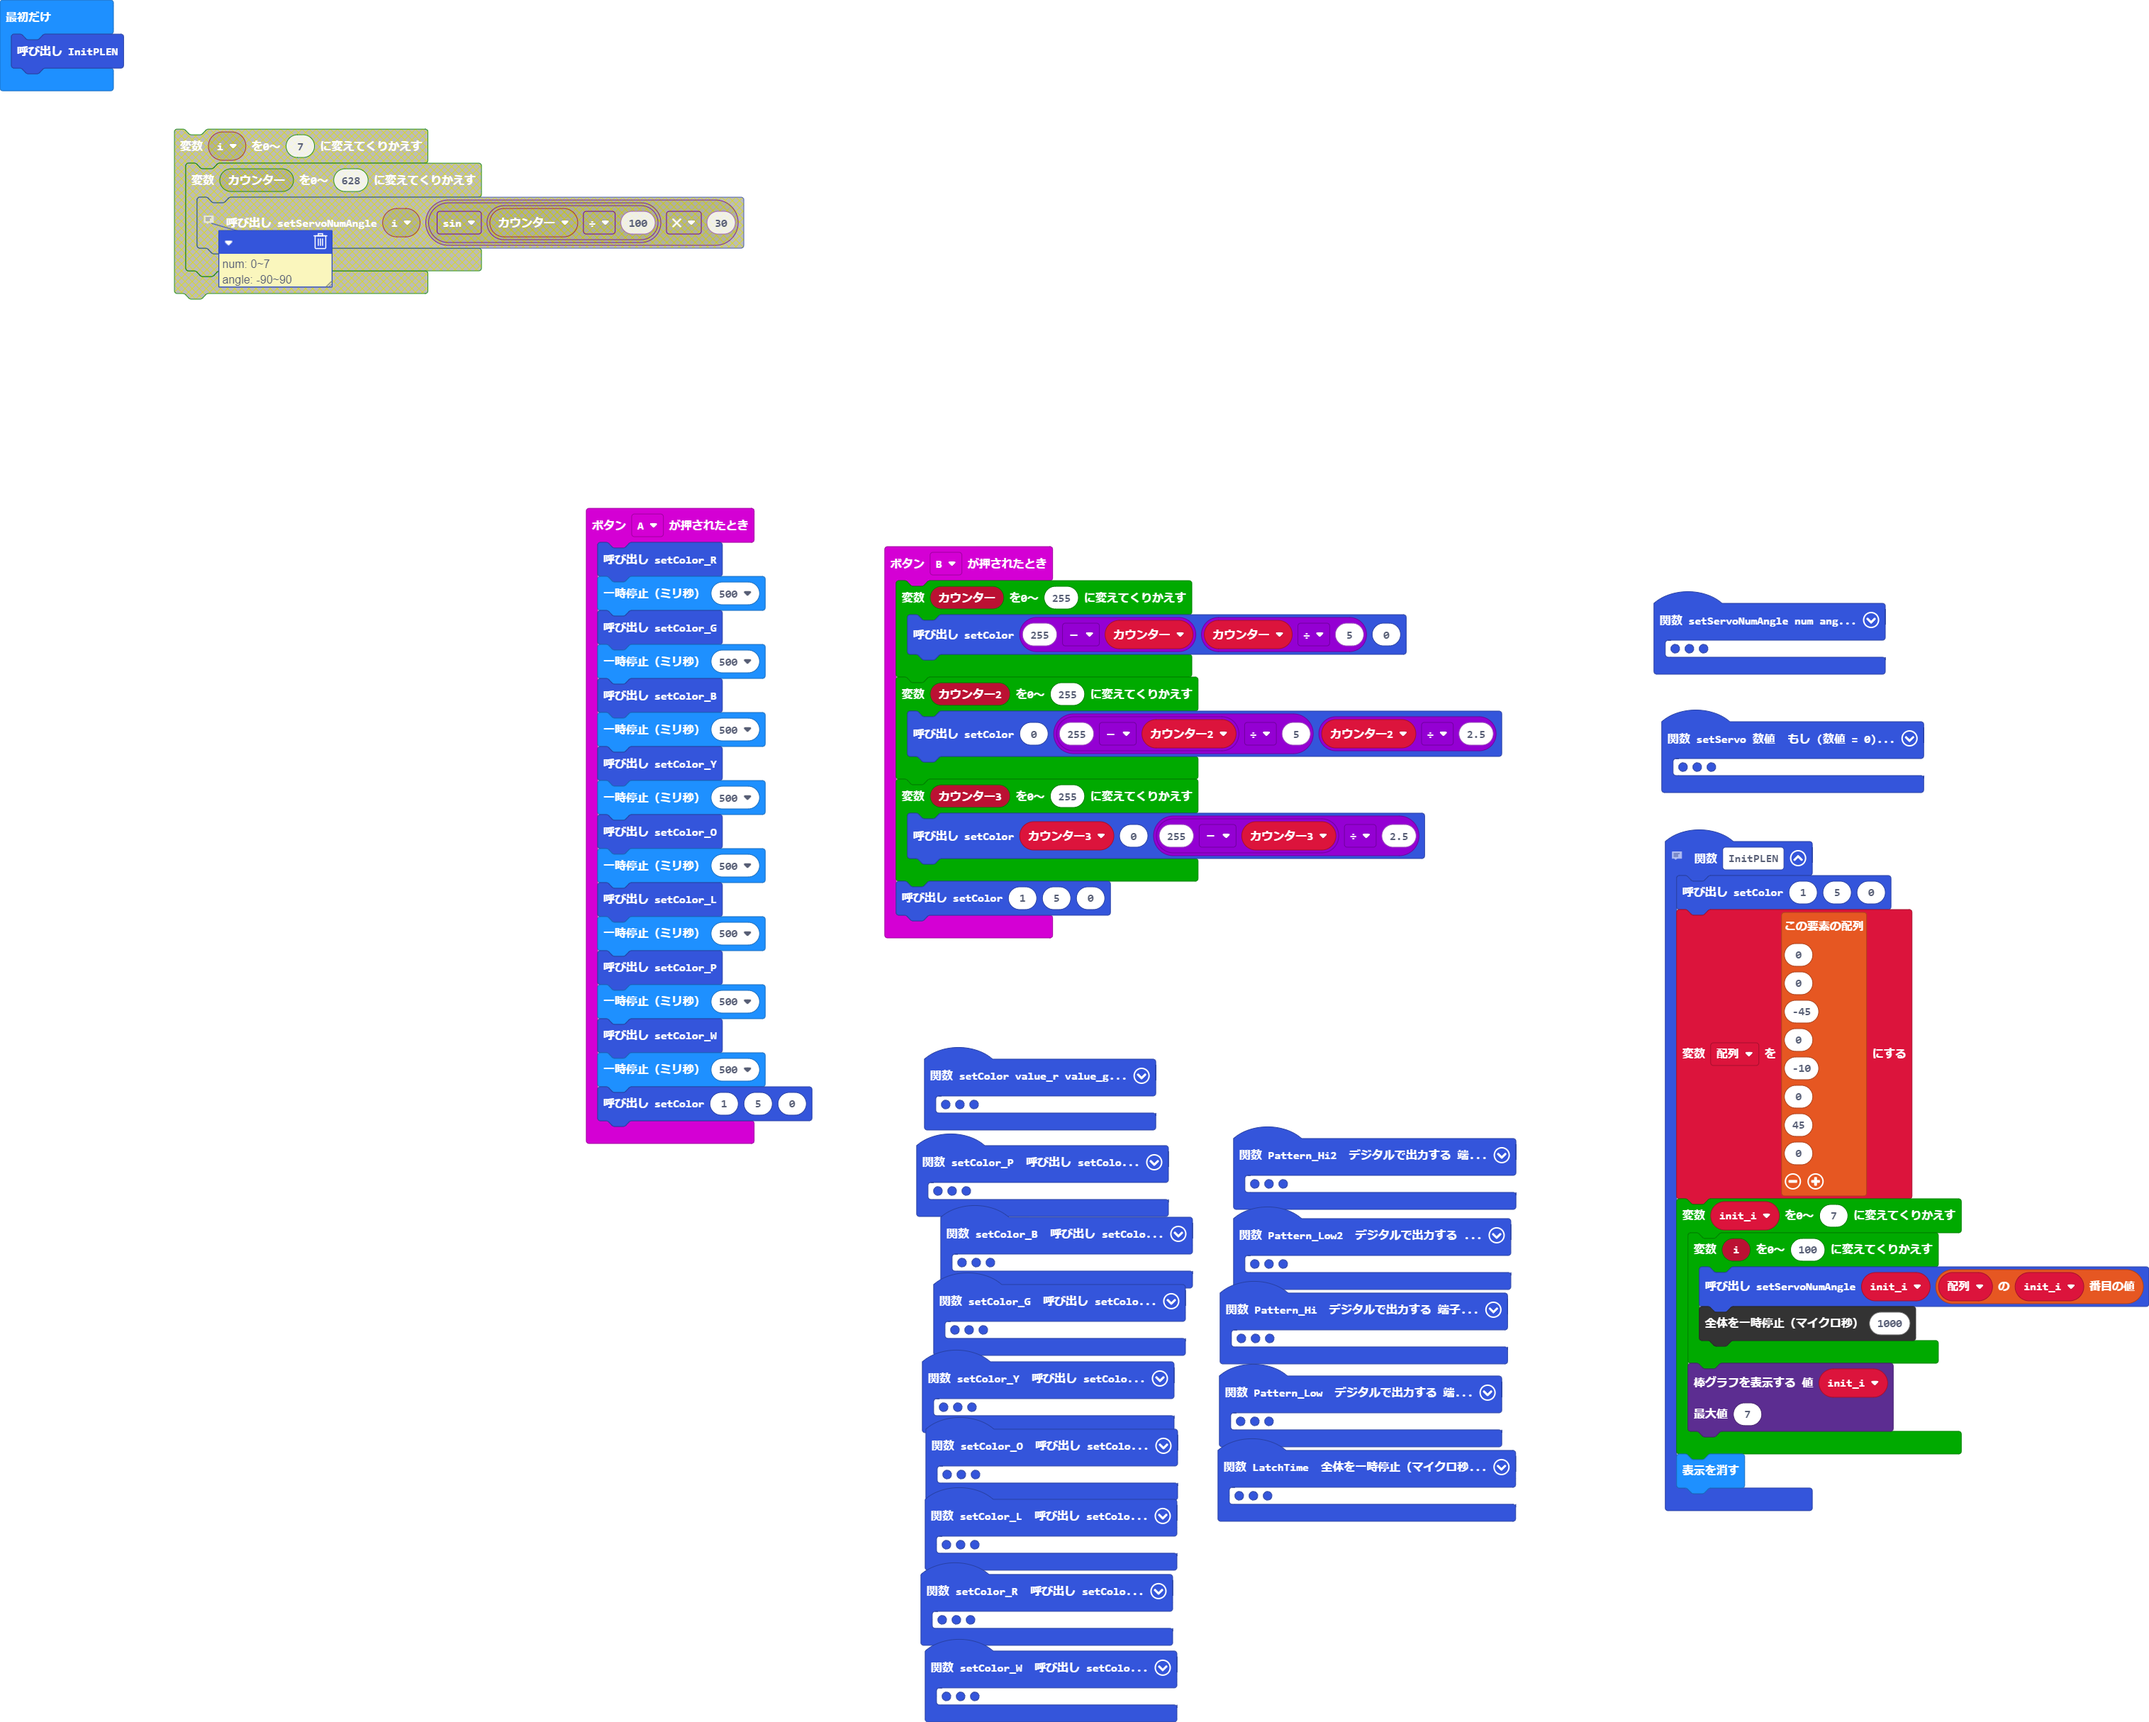
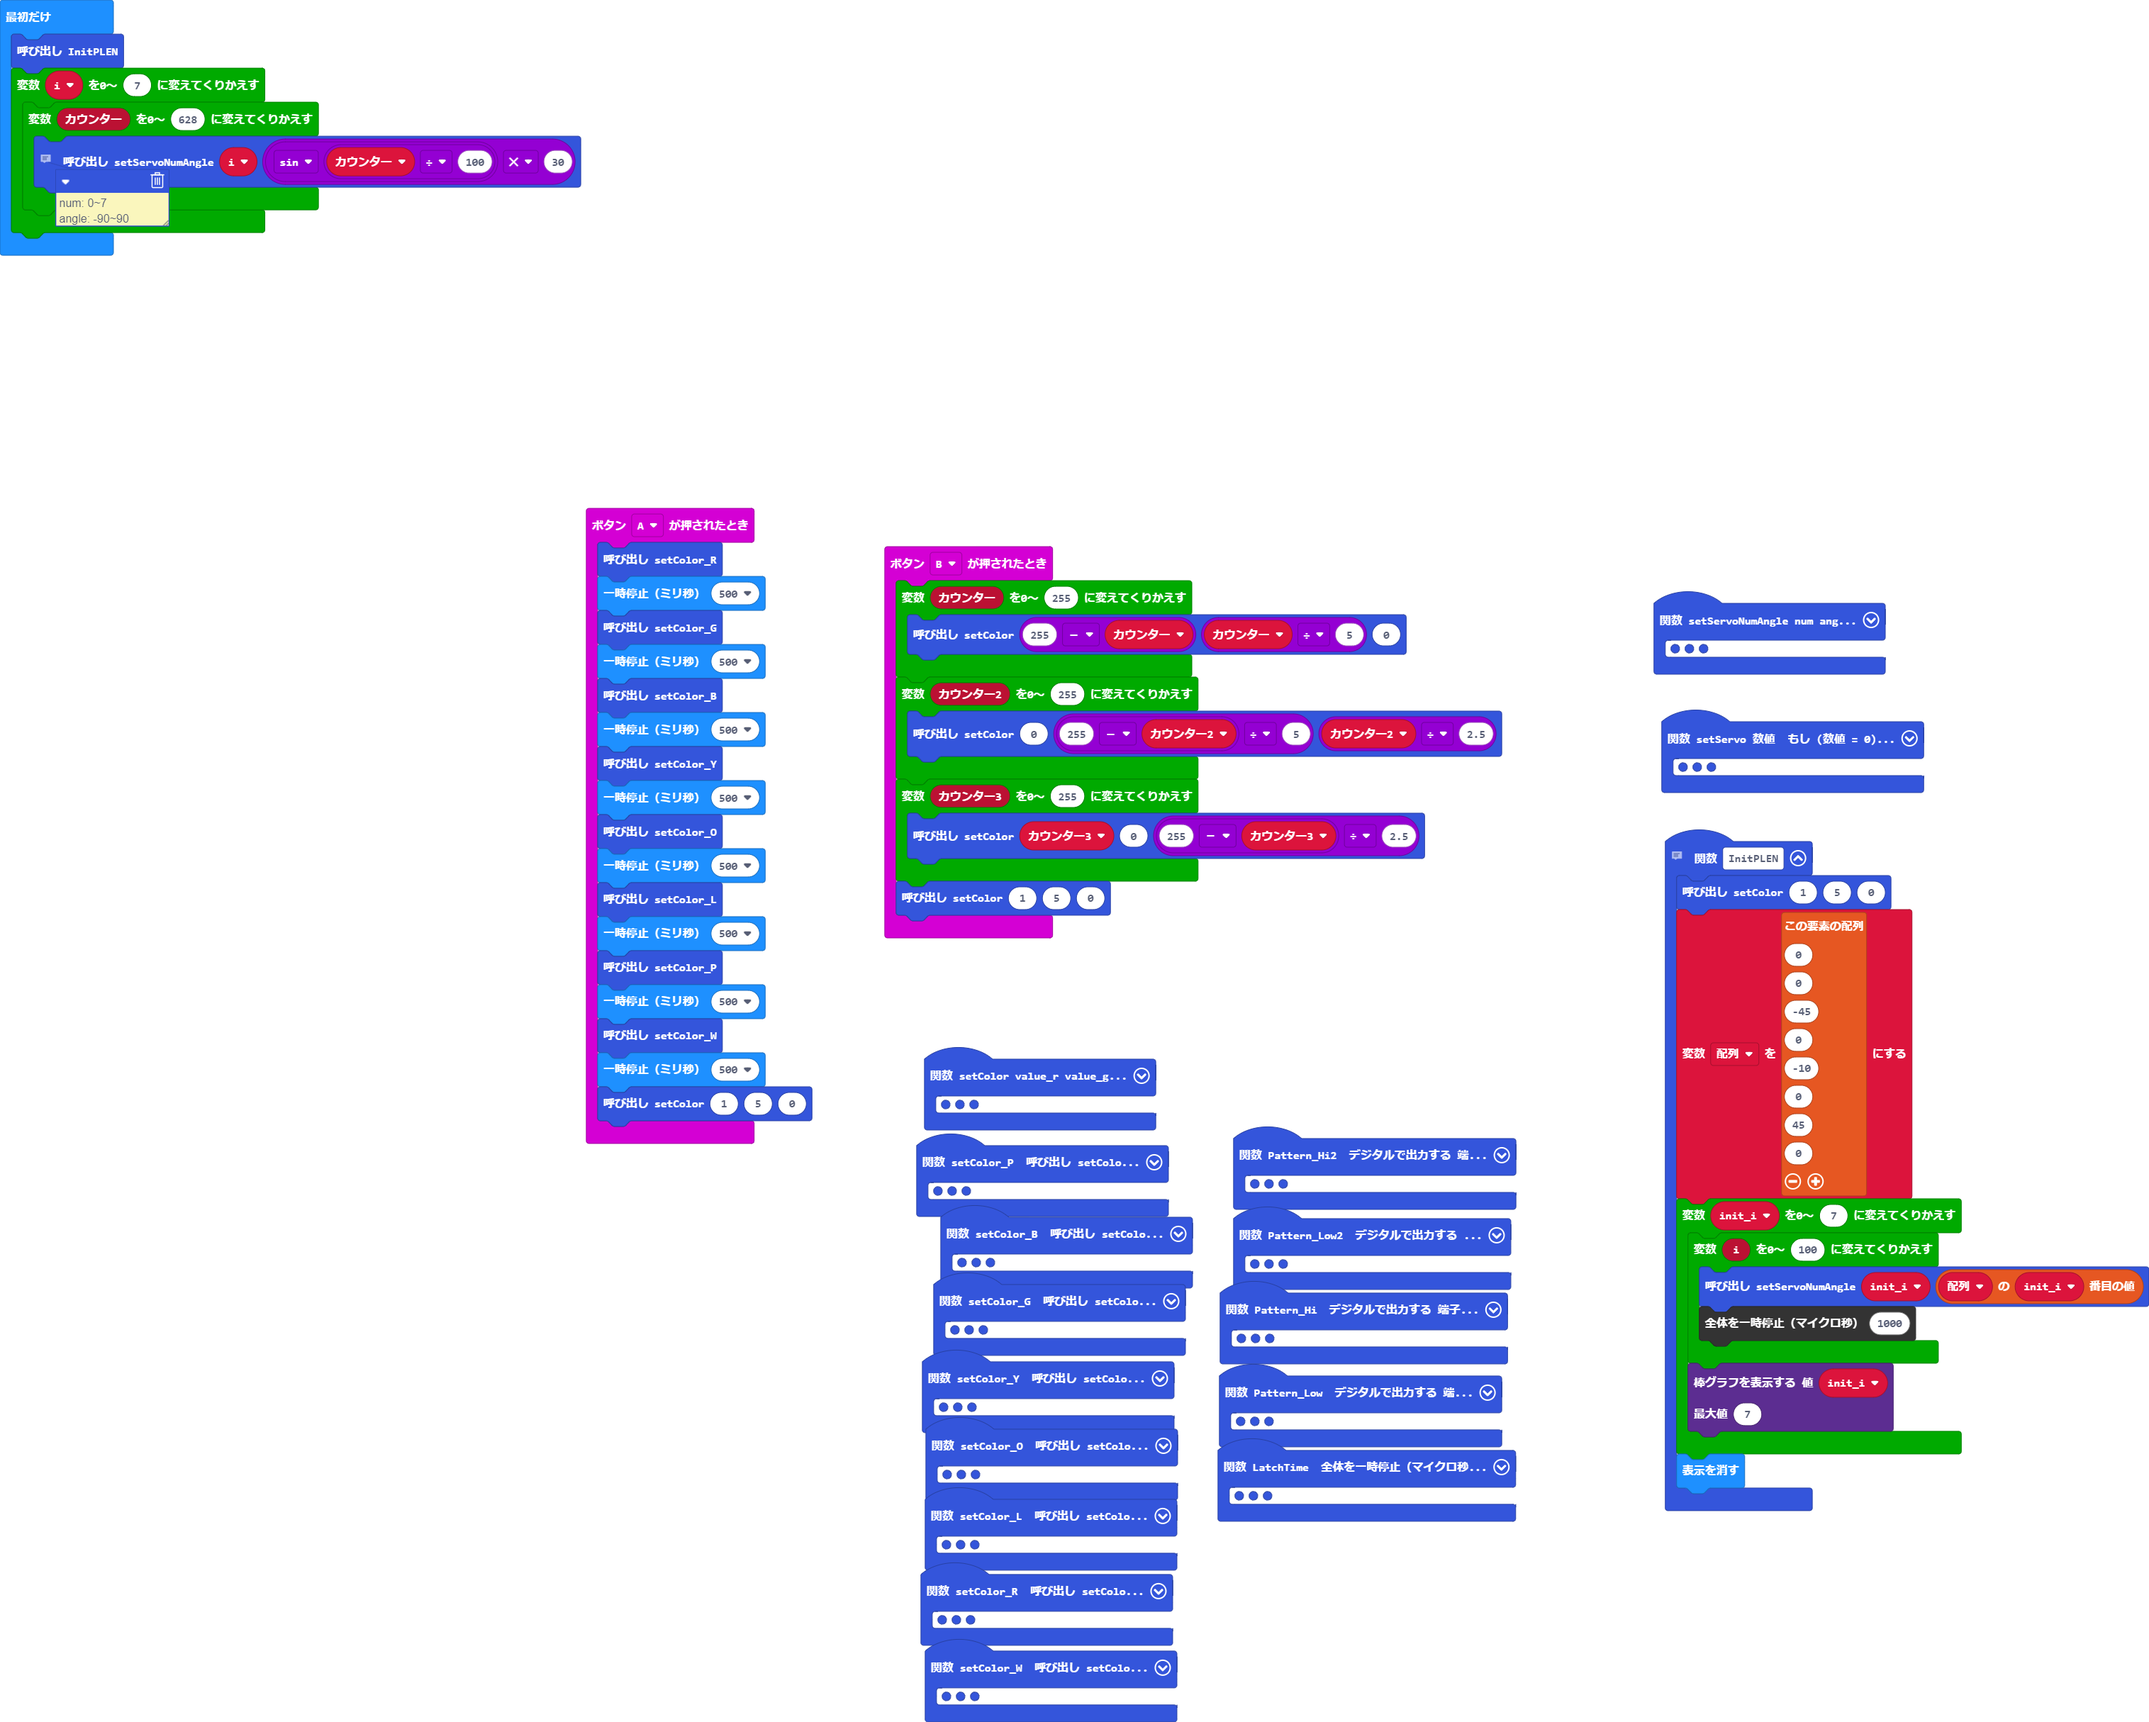
更新 main.blocks, main.ts

Changed region(s): [[0.0, 0.0309, 0.3722, 0.1853]]

diff --git a/main.ts b/main.ts
@@ -203,3 +203,10 @@ let code_24 = 0
 let 配列: number[] = []
 let temp = 0
 InitPLEN()
+for (let i = 0; i <= 7; i++) {
+    for (let カウンター = 0; カウンター <= 628; カウンター++) {
+        // num: 0~7
+        // angle: -90~90
+        setServoNumAngle(i, Math.sin(カウンター / 100) * 30)
+    }
+}
